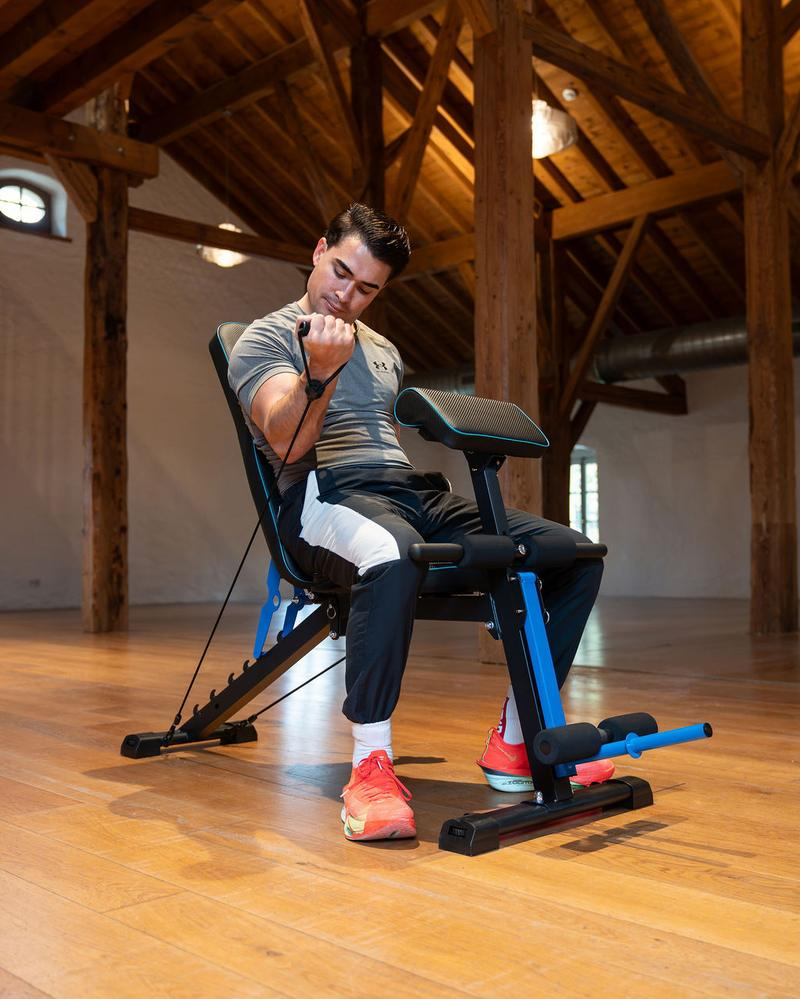
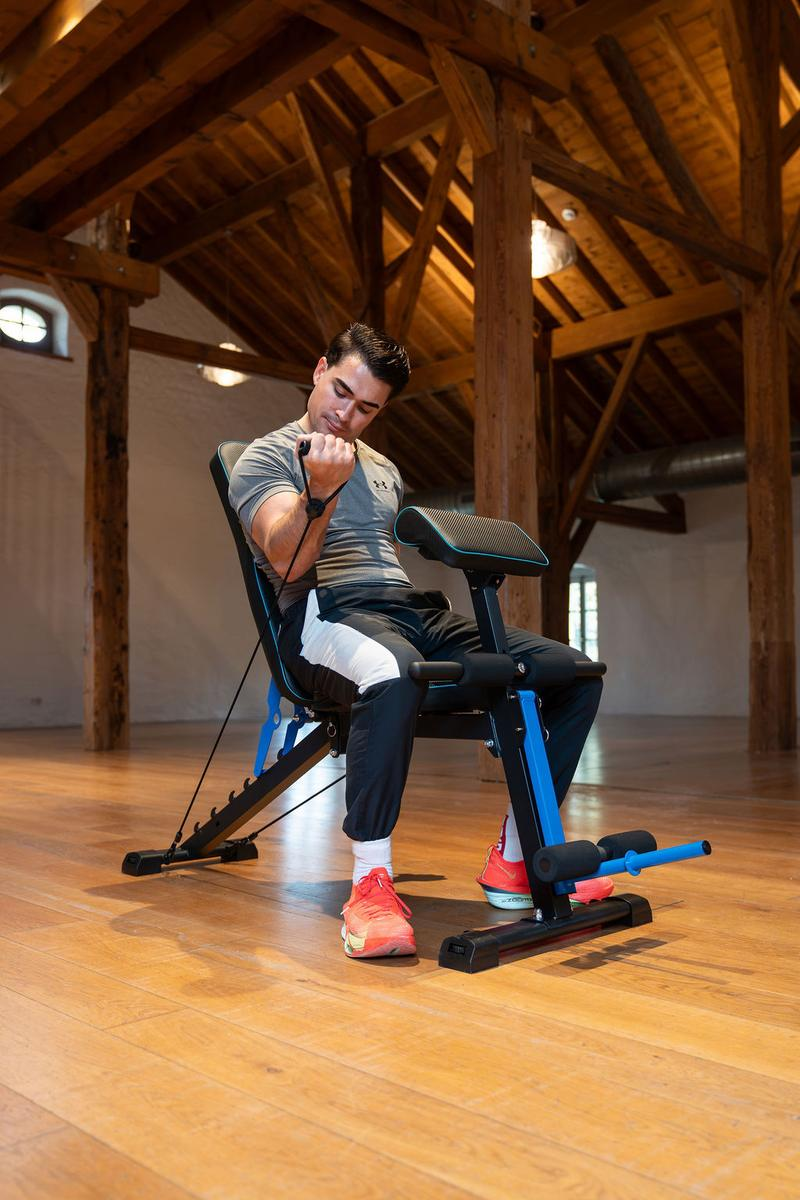
Banco entero en las fotos de Entrena y Ajustes; barra de compra sin "TX-11"
- Entrena: las tarjetas pasan de 4:5 a 2:3 (la proporción de las fotos) y
  las fotos van enteras, así se ve el banco completo (en "Press de hombros"
  se cortaba la base). El remo pasa a una foto con el banco entero.
- Ajustes: tarjeta cuadrada en móvil y en ordenador, con el banco entero
  dentro (en "Extensión de piernas" se cortaba el tubo de las piernas y en
  "Predicador" parte del banco; el predicador vuelve a la foto en vertical).
- Barra de compra en móvil: se quita el texto "TX-11"; queda solo el botón
  "Comprar en Amazon" a todo el ancho.

Claude-Session: https://claude.ai/code/session_013ek5Xes5s8hgUhsBcPEHnT

diff --git a/index.html b/index.html
@@ -314,8 +314,8 @@
           <article class="versa-card" id="ajuste-predicador" data-versa-card="predicador" aria-labelledby="ajuste-predicador-t">
             <div class="versa-img">
               <img style="object-position: 50% 50%" src="media/ajustes/ajuste-predicador-800.jpg"
-                   srcset="media/ajustes/ajuste-predicador-800.jpg 683w"
-                   sizes="(min-width: 1024px) 58vw, 86vw" width="683" height="683"
+                   srcset="media/ajustes/ajuste-predicador-800.jpg 800w, media/ajustes/ajuste-predicador.jpg 1024w"
+                   sizes="(min-width: 1024px) 58vw, 86vw" width="1024" height="1024"
                    alt="TX-11 con el respaldo vertical y el soporte predicador montado para curl de bíceps" loading="lazy" decoding="async">
             </div>
             <div class="versa-info">
@@ -416,7 +416,7 @@
       <li class="loop reveal">
         <figure>
           <div class="loop-media">
-            <img src="media/entreno/curl-predicador.jpg" width="800" height="1000"
+            <img src="media/entreno/curl-predicador.jpg" width="800" height="1200"
                  alt="Curl de bíceps con mancuerna, sentado en el TX-11 con el brazo apoyado en el soporte predicador" loading="lazy" decoding="async">
             <video muted loop playsinline preload="none" tabindex="-1" aria-hidden="true" data-loop="media/entreno/curl-predicador.mp4"></video>
           </div>
@@ -426,7 +426,7 @@
       <li class="loop reveal" style="--d: 80ms">
         <figure>
           <div class="loop-media">
-            <img src="media/entreno/press-hombros.jpg" width="800" height="1000"
+            <img src="media/entreno/press-hombros.jpg" width="800" height="1200"
                  alt="Press de hombros con dos mancuernas, sentado en el TX-11 con el respaldo en vertical" loading="lazy" decoding="async">
             <video muted loop playsinline preload="none" tabindex="-1" aria-hidden="true" data-loop="media/entreno/press-hombros.mp4"></video>
           </div>
@@ -436,7 +436,7 @@
       <li class="loop reveal" style="--d: 160ms">
         <figure>
           <div class="loop-media">
-            <img src="media/entreno/extension-piernas.jpg" width="800" height="1000"
+            <img src="media/entreno/extension-piernas.jpg" width="800" height="1200"
                  alt="Extensión de piernas en el TX-11: las piernas estiradas bajo los rodillos del accesorio" loading="lazy" decoding="async">
             <video muted loop playsinline preload="none" tabindex="-1" aria-hidden="true" data-loop="media/entreno/extension-piernas.mp4"></video>
           </div>
@@ -446,7 +446,7 @@
       <li class="loop reveal" style="--d: 240ms">
         <figure>
           <div class="loop-media">
-            <img src="media/entreno/press-banca.jpg" width="800" height="1000"
+            <img src="media/entreno/press-banca.jpg" width="800" height="1210"
                  alt="Press de banca con mancuernas, tumbado en el TX-11 bajo las vigas de madera" loading="lazy" decoding="async">
             <video muted loop playsinline preload="none" tabindex="-1" aria-hidden="true" data-loop="media/entreno/press-banca.mp4"></video>
           </div>
@@ -456,7 +456,7 @@
       <li class="loop reveal" style="--d: 320ms">
         <figure>
           <div class="loop-media">
-            <img src="media/entreno/curl-banda.jpg" width="800" height="999"
+            <img src="media/entreno/curl-banda.jpg" width="800" height="1200"
                  alt="Curl de bíceps con una banda elástica anclada a la base del TX-11, sentado" loading="lazy" decoding="async">
             <video muted loop playsinline preload="none" tabindex="-1" aria-hidden="true" data-loop="media/entreno/curl-banda.mp4"></video>
           </div>
@@ -466,7 +466,7 @@
       <li class="loop reveal" style="--d: 400ms">
         <figure>
           <div class="loop-media">
-            <img src="media/entreno/remo.jpg" width="800" height="1000"
+            <img src="media/entreno/remo.jpg" width="800" height="1201"
                  alt="Remo a una mano con mancuerna, con la mano apoyada en el TX-11" loading="lazy" decoding="async">
             <video muted loop playsinline preload="none" tabindex="-1" aria-hidden="true" data-loop="media/entreno/remo.mp4"></video>
           </div>
@@ -768,7 +768,6 @@
 
 <!-- Barra de compra fija (solo móvil): aparece al pasar la portada y se oculta en el pie. -->
 <div class="buybar" data-buybar aria-hidden="true" inert>
-  <p class="buybar-model">TX-11</p>
   <!-- ENLACE DE AMAZON: si cambia, actualízalo aquí y en main.js (DATOS.enlaces.amazon) -->
   <a class="btn btn--cyan btn--sm" href="https://www.amazon.es/dp/B0HGLFN5TQ" target="_blank" rel="noopener noreferrer" data-amazon data-cta="barra-movil">Comprar en Amazon<span class="sr-only"> (se abre en una pestaña nueva)</span></a>
 </div>

diff --git a/styles.css b/styles.css
@@ -799,7 +799,7 @@ a { color: inherit; }
 .versa-track::-webkit-scrollbar { display: none; }
 .versa-card { flex: 0 0 84%; scroll-snap-align: start; }
 @media (min-width: 768px) { .versa-card { flex-basis: 52%; } }
-.versa-img { overflow: hidden; aspect-ratio: 4 / 5; background: var(--bg-raise); }
+.versa-img { overflow: hidden; aspect-ratio: 1 / 1; background: var(--bg-raise); }
 .versa-img img { width: 100%; height: 100%; object-fit: cover; }
 .versa-info { padding-top: 20px; }
 .versa-title {
@@ -852,7 +852,6 @@ a { color: inherit; }
     visibility: visible;
     transition: opacity 0.7s var(--ease), visibility 0s;
   }
-  .versa-img { aspect-ratio: 5 / 4; }
   .versa-info { display: grid; grid-template-columns: auto 1fr; column-gap: 24px; align-items: baseline; padding-top: 24px; }
   .versa-info .num { grid-row: 1 / span 2; }
   .versa-title { margin-top: 0; }
@@ -964,7 +963,7 @@ a { color: inherit; }
 .loop-media {
   position: relative;
   overflow: hidden;
-  aspect-ratio: 4 / 5;
+  aspect-ratio: 2 / 3;
   background: var(--bg-raise);
 }
 .loop-media img,
@@ -1369,12 +1368,7 @@ a { color: inherit; }
 }
 .buybar.is-visible { transform: none; }
 .menu-open .buybar { transform: translateY(105%); }
-.buybar-model {
-  margin: 0;
-  font-size: 1rem;
-  font-weight: 800;
-  letter-spacing: 0.14em;
-}
+.buybar .btn { flex: 1; }
 @media (min-width: 768px) {
   .buybar { display: none; }
 }
